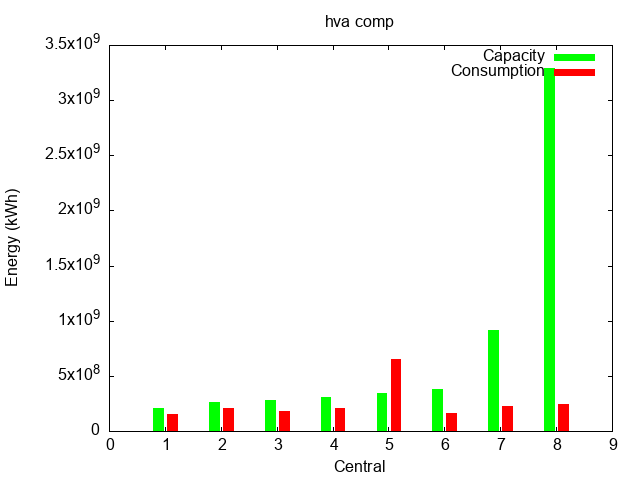
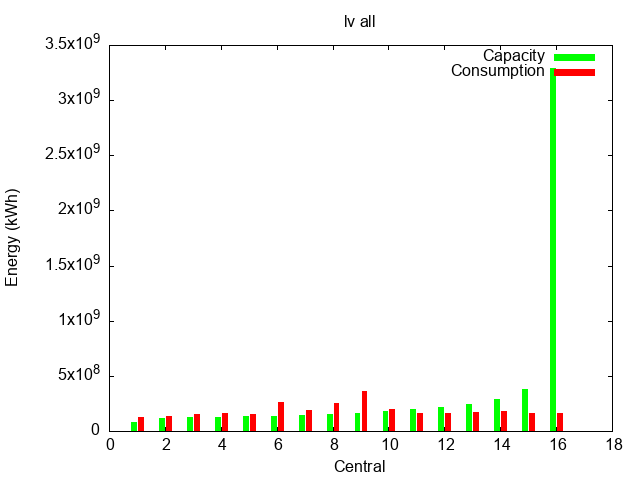
add details

Changed region(s): [[0.1875, 0.125, 0.9062, 0.9375], [0.5, 0.0312, 0.625, 0.0625], [0.9375, 0.9062, 0.9688, 0.9375]]

diff --git a/README.md b/README.md
@@ -22,7 +22,15 @@ If you want help you can put "-h" as an argument to have the details of the argu
 
 The values of the file created by the c program are then sorted by increasing capacity as requested in the expectations
 
-EXEMPLE: - "bash c-wire.sh /Users/"USERNAME"/Desktop/c-wire_v25.dat hva comp"
-        - "bash c-wire.sh /Users/"USERNAME"/Desktop/c-wire_v25.dat lv all 1"
-        - "bash c-wire.sh -h"
-        - "bash c-wire.sh /Users/"USERNAME"/Desktop/c-wire_v25.dat -h lv comp"
+EXEMPLE: 
+- "bash c-wire.sh /Users/"USERNAME"/Desktop/c-wire_v25.dat hva comp"
+- "bash c-wire.sh /Users/"USERNAME"/Desktop/c-wire_v25.dat lv all 1"
+- "bash c-wire.sh -h"
+- "bash c-wire.sh /Users/"USERNAME"/Desktop/c-wire_v25.dat -h lv comp"
+
+The program must return : 
+- A file named with the station's type and the targeted consumer and the particular power plant targeted if you notice it
+- A graph with all the capacity and consuption of all stations targeted sorted by increasing capacity
+
+- if lv all is specified : Another file named with the station's type and the targeted consumer and the particular power plant targeted if you notice it and if the number of station is greater than 21
+- And a minMax graph with all the capacity and consuption of all stations targeted sorted by increasing capacity
